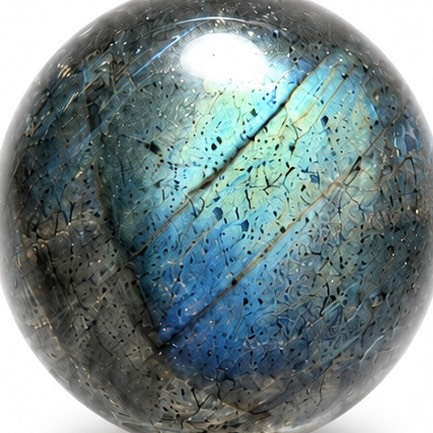
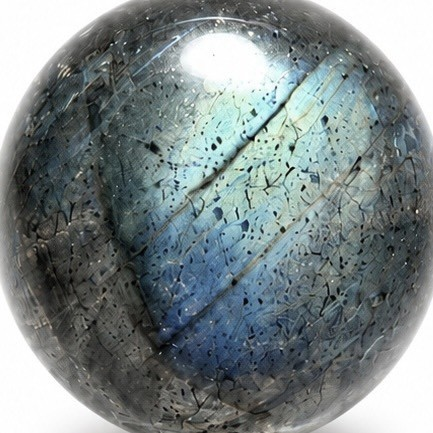
Add files via upload

diff --git a/index.html b/index.html
@@ -24,6 +24,17 @@
     <img id="image-modal-img" src="" alt="Enlarged view" class="max-w-full max-h-[90vh] object-contain rounded-sm shadow-2xl scale-90 transition-transform duration-300">
   </div>
 
+  <!-- Blog Modal -->
+  <div id="blog-modal" class="fixed inset-0 z-[200] bg-black/50 flex items-center justify-center p-4 md:p-8 opacity-0 pointer-events-none transition-opacity duration-300 backdrop-blur-sm">
+    <div class="bg-white w-full max-w-3xl max-h-[90vh] overflow-y-auto rounded-sm shadow-2xl scale-95 transition-transform duration-300 transform relative flex flex-col pt-16" id="blog-modal-content-container">
+      <button id="blog-modal-close" class="absolute top-4 right-4 text-stone-400 hover:text-stone-800 transition-colors w-10 h-10 flex items-center justify-center rounded-full hover:bg-stone-100 z-10">
+        <svg xmlns="http://www.w3.org/2000/svg" width="24" height="24" viewBox="0 0 24 24" fill="none" stroke="currentColor" stroke-width="2" stroke-linecap="round" stroke-linejoin="round"><line x1="18" y1="6" x2="6" y2="18"></line><line x1="6" y1="6" x2="18" y2="18"></line></svg>
+      </button>
+      <div id="blog-modal-body" class="p-8 md:p-12 prose prose-stone max-w-none text-stone-700 font-light text-[15px] leading-loose max-w-3xl mx-auto w-full">
+      </div>
+    </div>
+  </div>
+
   <!-- Loading Overlay -->
   <div id="loader" class="fixed inset-0 z-[100] bg-[#fdfdfc] flex items-center justify-center overflow-hidden transition-opacity duration-800 ease-in-out">
     <div id="loader-content" class="flex flex-col items-center justify-center" style="transform: scale(15);">
@@ -241,34 +252,34 @@
               <div class="marquee-container gap-4 px-4">
                 <!-- duplicated for seamless tracking -->
                 <div class="flex gap-4">
-                  <div class="w-32 h-32 md:w-48 md:h-48 overflow-hidden flex-shrink-0 relative group rounded-sm shadow-sm gallery-image"><img src="/assets/br1.jpg" class="w-full h-full object-cover transition-transform duration-700 group-hover:scale-105 pointer-events-none" alt="" loading="lazy"></div>
-                  <div class="w-32 h-32 md:w-48 md:h-48 overflow-hidden flex-shrink-0 relative group rounded-sm shadow-sm gallery-image"><img src="/assets/br2.jpg" class="w-full h-full object-cover pointer-events-none" loading="lazy"></div>
-                  <div class="w-32 h-32 md:w-48 md:h-48 overflow-hidden flex-shrink-0 relative group rounded-sm shadow-sm gallery-image"><img src="/assets/br3.jpg" class="w-full h-full object-cover pointer-events-none" loading="lazy"></div>
-                  <div class="w-32 h-32 md:w-48 md:h-48 overflow-hidden flex-shrink-0 relative group rounded-sm shadow-sm gallery-image"><img src="/assets/br4.jpg" class="w-full h-full object-cover pointer-events-none" loading="lazy"></div>
-                  <div class="w-32 h-32 md:w-48 md:h-48 overflow-hidden flex-shrink-0 relative group rounded-sm shadow-sm gallery-image"><img src="/assets/br5.jpg" class="w-full h-full object-cover pointer-events-none" loading="lazy"></div>
-                  <div class="w-32 h-32 md:w-48 md:h-48 overflow-hidden flex-shrink-0 relative group rounded-sm shadow-sm gallery-image"><img src="/assets/br6.jpg" class="w-full h-full object-cover pointer-events-none" loading="lazy"></div>
-                  <div class="w-32 h-32 md:w-48 md:h-48 overflow-hidden flex-shrink-0 relative group rounded-sm shadow-sm gallery-image"><img src="/assets/br7.jpg" class="w-full h-full object-cover pointer-events-none" loading="lazy"></div>
-                  <div class="w-32 h-32 md:w-48 md:h-48 overflow-hidden flex-shrink-0 relative group rounded-sm shadow-sm gallery-image"><img src="/assets/br8.jpg" class="w-full h-full object-cover pointer-events-none" loading="lazy"></div>
+                  <div class="w-32 h-32 md:w-48 md:h-48 overflow-hidden flex-shrink-0 relative group rounded-sm shadow-sm gallery-image"><img src="/assets/brc1.png" class="w-full h-full object-cover transition-transform duration-700 group-hover:scale-105 pointer-events-none" alt="" loading="lazy"></div>
+                  <div class="w-32 h-32 md:w-48 md:h-48 overflow-hidden flex-shrink-0 relative group rounded-sm shadow-sm gallery-image"><img src="/assets/brc2.png" class="w-full h-full object-cover pointer-events-none" loading="lazy"></div>
+                  <div class="w-32 h-32 md:w-48 md:h-48 overflow-hidden flex-shrink-0 relative group rounded-sm shadow-sm gallery-image"><img src="/assets/brc3.png" class="w-full h-full object-cover pointer-events-none" loading="lazy"></div>
+                  <div class="w-32 h-32 md:w-48 md:h-48 overflow-hidden flex-shrink-0 relative group rounded-sm shadow-sm gallery-image"><img src="/assets/brc4.png" class="w-full h-full object-cover pointer-events-none" loading="lazy"></div>
+                  <div class="w-32 h-32 md:w-48 md:h-48 overflow-hidden flex-shrink-0 relative group rounded-sm shadow-sm gallery-image"><img src="/assets/brc5.png" class="w-full h-full object-cover pointer-events-none" loading="lazy"></div>
+                  <div class="w-32 h-32 md:w-48 md:h-48 overflow-hidden flex-shrink-0 relative group rounded-sm shadow-sm gallery-image"><img src="/assets/brc6.png" class="w-full h-full object-cover pointer-events-none" loading="lazy"></div>
+                  <div class="w-32 h-32 md:w-48 md:h-48 overflow-hidden flex-shrink-0 relative group rounded-sm shadow-sm gallery-image"><img src="/assets/brc7.png" class="w-full h-full object-cover pointer-events-none" loading="lazy"></div>
+                  <div class="w-32 h-32 md:w-48 md:h-48 overflow-hidden flex-shrink-0 relative group rounded-sm shadow-sm gallery-image"><img src="/assets/brc8.png" class="w-full h-full object-cover pointer-events-none" loading="lazy"></div>
                 </div>
                 <div class="flex gap-4">
-                  <div class="w-32 h-32 md:w-48 md:h-48 overflow-hidden flex-shrink-0 relative group rounded-sm shadow-sm gallery-image"><img src="/assets/br1.jpg" class="w-full h-full object-cover pointer-events-none" loading="lazy"></div>
-                  <div class="w-32 h-32 md:w-48 md:h-48 overflow-hidden flex-shrink-0 relative group rounded-sm shadow-sm gallery-image"><img src="/assets/br2.jpg" class="w-full h-full object-cover pointer-events-none" loading="lazy"></div>
-                  <div class="w-32 h-32 md:w-48 md:h-48 overflow-hidden flex-shrink-0 relative group rounded-sm shadow-sm gallery-image"><img src="/assets/br3.jpg" class="w-full h-full object-cover pointer-events-none" loading="lazy"></div>
-                  <div class="w-32 h-32 md:w-48 md:h-48 overflow-hidden flex-shrink-0 relative group rounded-sm shadow-sm gallery-image"><img src="/assets/br4.jpg" class="w-full h-full object-cover pointer-events-none" loading="lazy"></div>
-                  <div class="w-32 h-32 md:w-48 md:h-48 overflow-hidden flex-shrink-0 relative group rounded-sm shadow-sm gallery-image"><img src="/assets/br5.jpg" class="w-full h-full object-cover pointer-events-none" loading="lazy"></div>
-                  <div class="w-32 h-32 md:w-48 md:h-48 overflow-hidden flex-shrink-0 relative group rounded-sm shadow-sm gallery-image"><img src="/assets/br6.jpg" class="w-full h-full object-cover pointer-events-none" loading="lazy"></div>
-                  <div class="w-32 h-32 md:w-48 md:h-48 overflow-hidden flex-shrink-0 relative group rounded-sm shadow-sm gallery-image"><img src="/assets/br7.jpg" class="w-full h-full object-cover pointer-events-none" loading="lazy"></div>
-                  <div class="w-32 h-32 md:w-48 md:h-48 overflow-hidden flex-shrink-0 relative group rounded-sm shadow-sm gallery-image"><img src="/assets/br8.jpg" class="w-full h-full object-cover pointer-events-none" loading="lazy"></div>
+                  <div class="w-32 h-32 md:w-48 md:h-48 overflow-hidden flex-shrink-0 relative group rounded-sm shadow-sm gallery-image"><img src="/assets/brc1.png" class="w-full h-full object-cover pointer-events-none" loading="lazy"></div>
+                  <div class="w-32 h-32 md:w-48 md:h-48 overflow-hidden flex-shrink-0 relative group rounded-sm shadow-sm gallery-image"><img src="/assets/brc2.png" class="w-full h-full object-cover pointer-events-none" loading="lazy"></div>
+                  <div class="w-32 h-32 md:w-48 md:h-48 overflow-hidden flex-shrink-0 relative group rounded-sm shadow-sm gallery-image"><img src="/assets/brc3.png" class="w-full h-full object-cover pointer-events-none" loading="lazy"></div>
+                  <div class="w-32 h-32 md:w-48 md:h-48 overflow-hidden flex-shrink-0 relative group rounded-sm shadow-sm gallery-image"><img src="/assets/brc4.png" class="w-full h-full object-cover pointer-events-none" loading="lazy"></div>
+                  <div class="w-32 h-32 md:w-48 md:h-48 overflow-hidden flex-shrink-0 relative group rounded-sm shadow-sm gallery-image"><img src="/assets/brc5.png" class="w-full h-full object-cover pointer-events-none" loading="lazy"></div>
+                  <div class="w-32 h-32 md:w-48 md:h-48 overflow-hidden flex-shrink-0 relative group rounded-sm shadow-sm gallery-image"><img src="/assets/brc6.png" class="w-full h-full object-cover pointer-events-none" loading="lazy"></div>
+                  <div class="w-32 h-32 md:w-48 md:h-48 overflow-hidden flex-shrink-0 relative group rounded-sm shadow-sm gallery-image"><img src="/assets/brc7.png" class="w-full h-full object-cover pointer-events-none" loading="lazy"></div>
+                  <div class="w-32 h-32 md:w-48 md:h-48 overflow-hidden flex-shrink-0 relative group rounded-sm shadow-sm gallery-image"><img src="/assets/brc8.png" class="w-full h-full object-cover pointer-events-none" loading="lazy"></div>
                 </div>
                 <div class="flex gap-4">
-                  <div class="w-32 h-32 md:w-48 md:h-48 overflow-hidden flex-shrink-0 relative group rounded-sm shadow-sm gallery-image"><img src="/assets/br1.jpg" class="w-full h-full object-cover pointer-events-none" loading="lazy"></div>
-                  <div class="w-32 h-32 md:w-48 md:h-48 overflow-hidden flex-shrink-0 relative group rounded-sm shadow-sm gallery-image"><img src="/assets/br2.jpg" class="w-full h-full object-cover pointer-events-none" loading="lazy"></div>
-                  <div class="w-32 h-32 md:w-48 md:h-48 overflow-hidden flex-shrink-0 relative group rounded-sm shadow-sm gallery-image"><img src="/assets/br3.jpg" class="w-full h-full object-cover pointer-events-none" loading="lazy"></div>
-                  <div class="w-32 h-32 md:w-48 md:h-48 overflow-hidden flex-shrink-0 relative group rounded-sm shadow-sm gallery-image"><img src="/assets/br4.jpg" class="w-full h-full object-cover pointer-events-none" loading="lazy"></div>
-                  <div class="w-32 h-32 md:w-48 md:h-48 overflow-hidden flex-shrink-0 relative group rounded-sm shadow-sm gallery-image"><img src="/assets/br5.jpg" class="w-full h-full object-cover pointer-events-none" loading="lazy"></div>
-                  <div class="w-32 h-32 md:w-48 md:h-48 overflow-hidden flex-shrink-0 relative group rounded-sm shadow-sm gallery-image"><img src="/assets/br6.jpg" class="w-full h-full object-cover pointer-events-none" loading="lazy"></div>
-                  <div class="w-32 h-32 md:w-48 md:h-48 overflow-hidden flex-shrink-0 relative group rounded-sm shadow-sm gallery-image"><img src="/assets/br7.jpg" class="w-full h-full object-cover pointer-events-none" loading="lazy"></div>
-                  <div class="w-32 h-32 md:w-48 md:h-48 overflow-hidden flex-shrink-0 relative group rounded-sm shadow-sm gallery-image"><img src="/assets/br8.jpg" class="w-full h-full object-cover pointer-events-none" loading="lazy"></div>
+                  <div class="w-32 h-32 md:w-48 md:h-48 overflow-hidden flex-shrink-0 relative group rounded-sm shadow-sm gallery-image"><img src="/assets/brc1.png" class="w-full h-full object-cover pointer-events-none" loading="lazy"></div>
+                  <div class="w-32 h-32 md:w-48 md:h-48 overflow-hidden flex-shrink-0 relative group rounded-sm shadow-sm gallery-image"><img src="/assets/brc2.png" class="w-full h-full object-cover pointer-events-none" loading="lazy"></div>
+                  <div class="w-32 h-32 md:w-48 md:h-48 overflow-hidden flex-shrink-0 relative group rounded-sm shadow-sm gallery-image"><img src="/assets/brc3.png" class="w-full h-full object-cover pointer-events-none" loading="lazy"></div>
+                  <div class="w-32 h-32 md:w-48 md:h-48 overflow-hidden flex-shrink-0 relative group rounded-sm shadow-sm gallery-image"><img src="/assets/brc4.png" class="w-full h-full object-cover pointer-events-none" loading="lazy"></div>
+                  <div class="w-32 h-32 md:w-48 md:h-48 overflow-hidden flex-shrink-0 relative group rounded-sm shadow-sm gallery-image"><img src="/assets/brc5.png" class="w-full h-full object-cover pointer-events-none" loading="lazy"></div>
+                  <div class="w-32 h-32 md:w-48 md:h-48 overflow-hidden flex-shrink-0 relative group rounded-sm shadow-sm gallery-image"><img src="/assets/brc6.png" class="w-full h-full object-cover pointer-events-none" loading="lazy"></div>
+                  <div class="w-32 h-32 md:w-48 md:h-48 overflow-hidden flex-shrink-0 relative group rounded-sm shadow-sm gallery-image"><img src="/assets/brc7.png" class="w-full h-full object-cover pointer-events-none" loading="lazy"></div>
+                  <div class="w-32 h-32 md:w-48 md:h-48 overflow-hidden flex-shrink-0 relative group rounded-sm shadow-sm gallery-image"><img src="/assets/brc8.png" class="w-full h-full object-cover pointer-events-none" loading="lazy"></div>
                 </div>
               </div>
             </div>
@@ -282,20 +293,51 @@
       </section>
 
       <!-- ITEM -->
-      <section id="item" class="py-24 px-6 bg-stone-50 scroll-mt-20">
-        <div class="max-w-5xl mx-auto text-center fade-in">
-          <h2 class="text-sm tracking-[0.3em] indent-[0.3em] font-light text-stone-400 mb-6">ITEM</h2>
-          <a href="https://ishiya.official.ec/" target="_blank" rel="noopener noreferrer" class="inline-block group cursor-pointer mb-16">
-            <p class="text-3xl font-serif tracking-[0.1em] indent-[0.1em] text-[#1B2A47] group-hover:text-stone-500 transition-colors">商品一覧</p>
-          </a>
-
-          <div class="mb-16 rounded-sm overflow-hidden bg-white shadow-sm border border-stone-200 fade-in delay-100" style="height: 600px;">
-            <iframe src="https://ishiya.official.ec/" width="100%" height="100%" style="border: none;" title="やまなみ銘石 BASEオンラインショップ"></iframe>
+      <section id="item" class="py-24 px-6 bg-white scroll-mt-20 border-b border-stone-200">
+        <div class="max-w-6xl mx-auto">
+          <div class="text-center mb-16 fade-in">
+            <h2 class="text-sm tracking-[0.3em] indent-[0.3em] font-light text-stone-400 mb-6">ITEM</h2>
+            <p class="text-3xl font-serif tracking-[0.1em] indent-[0.1em] text-[#1B2A47]">商品一覧</p>
           </div>
-          <a href="https://ishiya.official.ec/" target="_blank" rel="noopener noreferrer" class="inline-flex items-center gap-4 text-[11px] tracking-[0.2em] px-12 py-5 border border-[#1B2A47] text-[#1B2A47] hover:bg-[#1B2A47] hover:text-white transition-colors duration-500">
-            ONLINE STORE 
-            <svg xmlns="http://www.w3.org/2000/svg" width="24" height="24" viewBox="0 0 24 24" fill="none" stroke="currentColor" stroke-width="2" stroke-linecap="round" stroke-linejoin="round" class="w-3 h-3"><line x1="5" y1="12" x2="19" y2="12"></line><polyline points="12 5 19 12 12 19"></polyline></svg>
-          </a>
+
+          <div class="grid grid-cols-1 md:grid-cols-3 gap-8 md:gap-12 mb-16 fade-in delay-100">
+            <!-- Item 1 -->
+            <a href="https://ishiya.official.ec/" target="_blank" rel="noopener noreferrer" class="group block cursor-pointer">
+              <div class="aspect-square w-full overflow-hidden bg-stone-100 mb-6 rounded-sm">
+                <!-- 実際の商品画像に差し替えてください -->
+                <img src="https://images.unsplash.com/photo-1596484552834-3a58eeb02e1c?auto=format&fit=crop&w=800&q=80" alt="商品名" class="w-full h-full object-cover transition-transform duration-700 group-hover:scale-105">
+              </div>
+              <h3 class="text-lg font-serif text-[#1B2A47] mb-2 tracking-wider group-hover:text-stone-500 transition-colors">天然石ブレスレット（サンプル）</h3>
+              <p class="text-sm text-stone-500 font-light tracking-widest">¥5,500</p>
+            </a>
+
+            <!-- Item 2 -->
+            <a href="https://ishiya.official.ec/" target="_blank" rel="noopener noreferrer" class="group block cursor-pointer">
+              <div class="aspect-square w-full overflow-hidden bg-stone-100 mb-6 rounded-sm">
+                 <!-- 実際の商品画像に差し替えてください -->
+                <img src="https://images.unsplash.com/photo-1599839619722-39751411ea63?auto=format&fit=crop&w=800&q=80" alt="商品名" class="w-full h-full object-cover transition-transform duration-700 group-hover:scale-105">
+              </div>
+              <h3 class="text-lg font-serif text-[#1B2A47] mb-2 tracking-wider group-hover:text-stone-500 transition-colors">原石ペンダントトップ（サンプル）</h3>
+              <p class="text-sm text-stone-500 font-light tracking-widest">¥8,800</p>
+            </a>
+
+            <!-- Item 3 -->
+            <a href="https://ishiya.official.ec/" target="_blank" rel="noopener noreferrer" class="group block cursor-pointer">
+              <div class="aspect-square w-full overflow-hidden bg-stone-100 mb-6 rounded-sm">
+                 <!-- 実際の商品画像に差し替えてください -->
+                 <img src="https://images.unsplash.com/photo-1588665045432-8418f4a3bfec?auto=format&fit=crop&w=800&q=80" alt="商品名" class="w-full h-full object-cover transition-transform duration-700 group-hover:scale-105">
+              </div>
+              <h3 class="text-lg font-serif text-[#1B2A47] mb-2 tracking-wider group-hover:text-stone-500 transition-colors">オーダーメイド加工費（サンプル）</h3>
+              <p class="text-sm text-stone-500 font-light tracking-widest">¥11,000</p>
+            </a>
+          </div>
+
+          <div class="text-center fade-in delay-200">
+            <a href="https://ishiya.official.ec/" target="_blank" rel="noopener noreferrer" class="inline-flex items-center gap-4 text-[11px] tracking-[0.2em] px-12 py-5 border border-[#1B2A47] text-[#1B2A47] hover:bg-[#1B2A47] hover:text-white transition-colors duration-500">
+              MORE ITEMS ON BASE
+              <svg xmlns="http://www.w3.org/2000/svg" width="24" height="24" viewBox="0 0 24 24" fill="none" stroke="currentColor" stroke-width="2" stroke-linecap="round" stroke-linejoin="round" class="w-3 h-3"><line x1="5" y1="12" x2="19" y2="12"></line><polyline points="12 5 19 12 12 19"></polyline></svg>
+            </a>
+          </div>
         </div>
       </section>
 
@@ -304,7 +346,7 @@
         <div class="max-w-4xl mx-auto">
           <div class="text-center mb-16 fade-in">
             <h2 class="text-sm tracking-[0.3em] indent-[0.3em] font-light text-stone-400 mb-6">BLOG</h2>
-            <p class="text-3xl font-serif tracking-[0.1em] indent-[0.1em] text-[#1B2A47]">お知らせ・ブログ</p>
+            <p class="text-3xl font-serif tracking-[0.1em] indent-[0.1em] text-[#1B2A47]">ブログ</p>
           </div>
           <div id="blog-container" class="space-y-6 fade-in delay-100">
             <!-- MicroCMS Blog items will be rendered here -->
@@ -501,7 +543,7 @@
               <div class="space-y-2">
                 <label class="block text-[10px] tracking-[0.1em] text-stone-400 uppercase">Attachment (Photo)</label>
                 <p class="text-[11px] text-stone-500 leading-relaxed mt-1 normal-case tracking-normal font-light">
-                  加工のご相談の際、対象の石のお写真を添付していただけますと、よりスムーズなご案内が可能となります。<span class="cursor-pointer text-stone-600 underline hover:text-stone-800 transition-colors font-medium border-b border-stone-400 pb-0.5" id="open-rei-img">（イメージ）</span><br>
+                  加工のご相談の際、対象の石のお写真を添付していただけますと、よりスムーズなご案内が可能となります。<span class="cursor-pointer text-stone-500 hover:text-stone-800 transition-colors border-b border-stone-300 pb-0.5" id="open-rei-img">（イメージ）</span><br>
                   また、手書きで構いませんので、簡単な図解や完成イメージのお写真も併せて送付いただけますと幸いでございます。
                 </p>
                 <div class="relative py-4 border-b border-stone-300">

diff --git a/src/main.js b/src/main.js
@@ -261,7 +261,8 @@ document.addEventListener('DOMContentLoaded', () => {
         openReiImg.addEventListener('click', (e) => {
             e.preventDefault();
             e.stopPropagation();
-            imageModalImg.setAttribute('src', '/assets/rei.jpg');
+            // 一時的にUnsplashの天然石の画像をプレースホルダーとして設定します（後で差し替え可能です）
+            imageModalImg.setAttribute('src', 'https://images.unsplash.com/photo-1596484552834-3a58eeb02e1c?auto=format&fit=crop&w=800&q=80');
             imageModal.style.pointerEvents = 'auto';
             imageModal.style.opacity = '1';
             imageModalImg.classList.remove('scale-90');
@@ -593,6 +594,11 @@ document.addEventListener('DOMContentLoaded', () => {
                 return;
             }
 
+            window.blogPostsCache = data.contents.reduce((acc, post) => {
+                acc[post.id] = post;
+                return acc;
+            }, {});
+
             const html = data.contents.map(post => {
                 const date = new Date(post.publishedAt || post.createdAt).toLocaleDateString('ja-JP', {
                     year: 'numeric',
@@ -612,7 +618,7 @@ document.addEventListener('DOMContentLoaded', () => {
                 const truncated = description.length > 70 ? description.substring(0, 70) + '...' : description;
 
                 return `
-                    <div class="border border-stone-200 p-6 md:p-8 rounded-sm hover:-translate-y-1 transition-transform duration-300 bg-stone-50 cursor-pointer shadow-sm group">
+                    <div class="blog-item border border-stone-200 p-6 md:p-8 rounded-sm hover:-translate-y-1 transition-transform duration-300 bg-stone-50 cursor-pointer shadow-sm group" data-id="${post.id}">
                         <div class="flex items-center gap-4 mb-4">
                             <span class="text-[11px] font-sans text-stone-400 tracking-wider">${date}</span>
                         </div>
@@ -623,6 +629,65 @@ document.addEventListener('DOMContentLoaded', () => {
             }).join('');
 
             blogContainer.innerHTML = html;
+
+            const blogModal = document.getElementById('blog-modal');
+            const blogModalBody = document.getElementById('blog-modal-body');
+            const blogModalContentContainer = document.getElementById('blog-modal-content-container');
+            const blogModalClose = document.getElementById('blog-modal-close');
+
+            const openBlogModal = (post) => {
+                const date = new Date(post.publishedAt || post.createdAt).toLocaleDateString('ja-JP', {
+                    year: 'numeric',
+                    month: '2-digit',
+                    day: '2-digit'
+                }).replace(/\//g, '.');
+                
+                blogModalBody.innerHTML = `
+                    <div class="mb-8">
+                        <span class="text-[12px] font-sans text-stone-400 tracking-wider block mb-4">${date}</span>
+                        <h2 class="text-2xl md:text-3xl font-serif tracking-widest text-[#1B2A47] mb-6 leading-relaxed">${post.title}</h2>
+                        <hr class="border-stone-200">
+                    </div>
+                    <div class="blog-content">
+                        ${post.content || ''}
+                    </div>
+                `;
+                
+                blogModal.style.opacity = '1';
+                blogModal.style.pointerEvents = 'auto';
+                blogModalContentContainer.classList.remove('scale-95');
+                blogModalContentContainer.classList.add('scale-100');
+                document.body.style.overflow = 'hidden';
+            };
+
+            const closeBlogModal = () => {
+                blogModal.style.opacity = '0';
+                blogModal.style.pointerEvents = 'none';
+                blogModalContentContainer.classList.remove('scale-100');
+                blogModalContentContainer.classList.add('scale-95');
+                document.body.style.overflow = '';
+                setTimeout(() => {
+                    blogModalBody.innerHTML = '';
+                }, 300);
+            };
+
+            document.querySelectorAll('.blog-item').forEach(item => {
+                item.addEventListener('click', () => {
+                    const postId = item.getAttribute('data-id');
+                    const post = window.blogPostsCache[postId];
+                    if (post) {
+                        openBlogModal(post);
+                    }
+                });
+            });
+
+            blogModalClose.addEventListener('click', closeBlogModal);
+            
+            blogModal.addEventListener('click', (e) => {
+                if (e.target === blogModal) {
+                    closeBlogModal();
+                }
+            });
 
         } catch (error) {
             console.error('Error fetching blogs:', error);

diff --git a/src/index.css b/src/index.css
@@ -110,3 +110,68 @@ body {
 header {
   transition: all 0.7s ease;
 }
+
+/* Blog Content Styles */
+.blog-content {
+  color: #3f3f46;
+}
+.blog-content * {
+  line-height: inherit;
+}
+.blog-content p {
+  margin-bottom: 24px;
+}
+.blog-content img {
+  max-width: 100%;
+  height: auto;
+  border-radius: 4px;
+  margin: 32px 0;
+}
+.blog-content h2,
+.blog-content h3 {
+  font-family: var(--font-serif);
+  color: #1B2A47;
+  letter-spacing: 0.1em;
+  margin-top: 48px;
+  margin-bottom: 24px;
+  font-weight: 400;
+}
+.blog-content h2 {
+  font-size: 1.5rem;
+  border-bottom: 1px solid #e5e5e5;
+  padding-bottom: 12px;
+}
+.blog-content h3 {
+  font-size: 1.25rem;
+}
+.blog-content ul {
+  list-style-type: disc;
+  padding-left: 1.5rem;
+  margin-bottom: 24px;
+}
+.blog-content ol {
+  list-style-type: decimal;
+  padding-left: 1.5rem;
+  margin-bottom: 24px;
+}
+.blog-content li {
+  margin-bottom: 8px;
+}
+.blog-content blockquote {
+  border-left: 2px solid #d6d3d1;
+  padding-left: 16px;
+  color: #78716c;
+  font-style: italic;
+  margin: 32px 0;
+}
+.blog-content a {
+  color: #57534e;
+  text-decoration: underline;
+  text-decoration-color: #a8a29e;
+  text-underline-offset: 4px;
+  transition: color 0.2s, text-decoration-color 0.2s;
+}
+.blog-content a:hover {
+  color: #1c1917;
+  text-decoration-color: #1c1917;
+}

diff --git a/BRACE.html b/BRACE.html
@@ -247,6 +247,7 @@
                 <div class="preview-inner">
                     <div id="bracelet-capture-area" style="background: var(--bgLight); border: 1px solid var(--border); border-radius: 4px; position: relative;">
                         <div id="main-svg-container"></div>
+                        <div style="position: absolute; bottom: 8px; right: 12px; font-size: 10px; color: var(--mutedGray); font-family: serif; letter-spacing: 0.05em;">※天然石の特性上、実際の色合いや模様が異なる場合がございます。</div>
                     </div>
                 </div>
             </div>